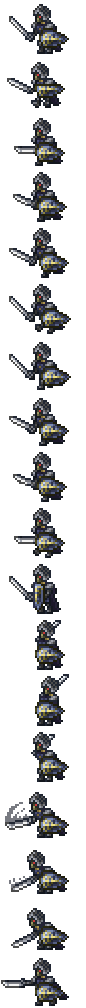
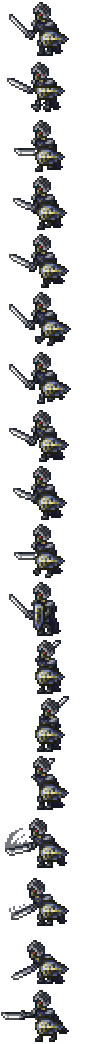
Pre-HM Balancing tweaks
- Lots of small Pre-HM balancing. Bigger ones to note:
- Ancient Demon Helmet gives +40 mana instead of +3% magic crit chance.
- Nights Edge and Fiery Greatsword have been buffed to their Terraria 1.4 stats.
- Muramassa and Murassame  now deal magic damage, have had their dps cut by over 2/3, and now gain +1 damage for every 20 and 10 of the players max mana over 200, respectively.
- Hollow Warrior and Soldier now take longer to recover from their jumpstrike, giving players more time to damage them from behind.
- Lothric Knight is no longer a 5'11" scrub, and is now a 6'gigachad.

Changed region(s): [[0.0233, 0.0, 0.814, 1.0]]

diff --git a/NPCs/Enemies/LothricKnight.cs b/NPCs/Enemies/LothricKnight.cs
@@ -38,7 +38,7 @@ namespace tsorcRevamp.NPCs.Enemies
             npc.aiStyle = -1;
             npc.damage = 40;
             npc.defense = 26;
-            npc.height = 40;
+            npc.height = 44;
             npc.width = 20;
             npc.lifeMax = 750;
             if (Main.hardMode) { npc.lifeMax = 1400; npc.defense = 40; }
@@ -434,7 +434,7 @@ namespace tsorcRevamp.NPCs.Enemies
             {
                 if (npc.direction == 1) //Large eye dust to warn player that a jump-slash is ready...
                 {
-                    Dust dust2 = Main.dust[Dust.NewDust(new Vector2(npc.position.X + 9, npc.position.Y + 1), 4, 4, 183, npc.velocity.X, npc.velocity.Y, 180, default(Color), 1.5f)];
+                    Dust dust2 = Main.dust[Dust.NewDust(new Vector2(npc.position.X + 9, npc.position.Y), 4, 4, 183, npc.velocity.X, npc.velocity.Y, 180, default(Color), 1.5f)];
                     //dust2.velocity *= 0f;
                     dust2.noGravity = true;
                     dust2.fadeIn = .3f;
@@ -443,7 +443,7 @@ namespace tsorcRevamp.NPCs.Enemies
 
                 else
                 {
-                    Dust dust2 = Main.dust[Dust.NewDust(new Vector2(npc.position.X + 3, npc.position.Y + 1), 4, 4, 183, npc.velocity.X, npc.velocity.Y, 180, default(Color), 1.5f)];
+                    Dust dust2 = Main.dust[Dust.NewDust(new Vector2(npc.position.X + 3, npc.position.Y), 4, 4, 183, npc.velocity.X, npc.velocity.Y, 180, default(Color), 1.5f)];
                     //dust2.velocity *= 0f;
                     dust2.noGravity = true;
                     dust2.fadeIn = .3f;
@@ -456,7 +456,7 @@ namespace tsorcRevamp.NPCs.Enemies
             {
                 if (npc.direction == 1) //Small eye dust to warn player that a jump-slash is ready...
                 {
-                    Dust dust2 = Main.dust[Dust.NewDust(new Vector2(npc.position.X + 9, npc.position.Y + 1), 4, 4, 183, npc.velocity.X, npc.velocity.Y, 180, default(Color), 0.8f)];
+                    Dust dust2 = Main.dust[Dust.NewDust(new Vector2(npc.position.X + 9, npc.position.Y), 4, 4, 183, npc.velocity.X, npc.velocity.Y, 180, default(Color), 0.8f)];
                     //dust2.velocity *= 0f;
                     dust2.noGravity = true;
                     dust2.fadeIn = .3f;
@@ -465,7 +465,7 @@ namespace tsorcRevamp.NPCs.Enemies
 
                 else
                 {
-                    Dust dust2 = Main.dust[Dust.NewDust(new Vector2(npc.position.X + 3, npc.position.Y + 1), 4, 4, 183, npc.velocity.X, npc.velocity.Y, 180, default(Color), 0.8f)];
+                    Dust dust2 = Main.dust[Dust.NewDust(new Vector2(npc.position.X + 3, npc.position.Y), 4, 4, 183, npc.velocity.X, npc.velocity.Y, 180, default(Color), 0.8f)];
                     //dust2.velocity *= 0f;
                     dust2.noGravity = true;
                     dust2.fadeIn = .3f;

diff --git a/Items/Weapons/Magic/Muramassa.cs b/Items/Weapons/Magic/Muramassa.cs
@@ -1,19 +1,21 @@
-using Terraria.ID;
+using Terraria;
+using Terraria.ID;
 using Terraria.ModLoader;
 
-namespace tsorcRevamp.Items.Weapons.Melee {
+namespace tsorcRevamp.Items.Weapons.Magic {
     class Muramassa : ModItem {
         public override void SetStaticDefaults() {
             Tooltip.SetDefault("A sword crafted for magic users" +
-                                "\nCan be upgraded with 25,000 Dark Souls & 3 Souls of Light");
+                               "\nDeals +1 damage for every 20 mana the user has over 200" +
+                               "\nCan be upgraded with 25,000 Dark Souls & 3 Souls of Light");
         }
 
         public override void SetDefaults() {
             item.width = 48;
             item.height = 48;
-            item.useAnimation = 11;
-            item.useTime = 11;
-            item.damage = 27;
+            item.useAnimation = 18;
+            item.useTime = 18;
+            item.damage = 12;
             item.knockBack = 3;
             item.autoReuse = true;
             item.useTurn = true;
@@ -21,7 +23,7 @@ namespace tsorcRevamp.Items.Weapons.Melee {
             item.rare = ItemRarityID.Green;
             item.useStyle = ItemUseStyleID.SwingThrow;
             item.value = 27000;
-            item.melee = true;
+            item.magic = true;
             item.mana = 5;
             item.shoot = ModContent.ProjectileType<Projectiles.HealingWater>();
             item.shootSpeed = 11f;
@@ -34,6 +36,14 @@ namespace tsorcRevamp.Items.Weapons.Melee {
             recipe.AddTile(TileID.DemonAltar);
             recipe.SetResult(this, 1);
             recipe.AddRecipe();
+        }
+
+        public override void ModifyWeaponDamage(Player player, ref float add, ref float mult, ref float flat)
+        {
+            if (player.statManaMax2 >= 200)
+            {
+                flat += (player.statManaMax2 - 200) / 20;
+            }
         }
     }
 }

diff --git a/Items/Weapons/Magic/Murassame.cs b/Items/Weapons/Magic/Murassame.cs
@@ -1,26 +1,28 @@
 using Terraria.ID;
+using Terraria;
 using Terraria.ModLoader;
 
-namespace tsorcRevamp.Items.Weapons.Melee {
+namespace tsorcRevamp.Items.Weapons.Magic {
     class Murassame : ModItem {
         public override void SetStaticDefaults() {
-            Tooltip.SetDefault("A sword crafted for magic users");
+            Tooltip.SetDefault("A sword crafted for magic users" +
+                               "\nDeals +1 damage for every 10 mana the user has over 200");
         }
 
         public override void SetDefaults() {
             item.width = 48;
             item.height = 48;
-            item.useAnimation = 14;
-            item.useTime = 14;
-            item.damage = 50;
-            item.knockBack = 9;
+            item.useAnimation = 16;
+            item.useTime = 16;
+            item.damage = 18;
+            item.knockBack = 5;
             item.autoReuse = true;
             item.useTurn = true;
             item.UseSound = SoundID.Item1;
             item.rare = ItemRarityID.LightRed;
             item.useStyle = ItemUseStyleID.SwingThrow;
             item.value = 500000;
-            item.melee = true;
+            item.magic = true;
             item.mana = 5;
             item.shoot = ModContent.ProjectileType<Projectiles.HealingWater>();
             item.shootSpeed = 12f;
@@ -34,6 +36,14 @@ namespace tsorcRevamp.Items.Weapons.Melee {
             recipe.AddTile(TileID.DemonAltar);
             recipe.SetResult(this, 1);
             recipe.AddRecipe();
+        }
+
+        public override void ModifyWeaponDamage(Player player, ref float add, ref float mult, ref float flat)
+        {
+            if (player.statManaMax2 >= 200)
+            {
+                flat += (player.statManaMax2 - 200) / 10;
+            }
         }
     }
 }

diff --git a/NPCs/Enemies/HollowWarrior.cs b/NPCs/Enemies/HollowWarrior.cs
@@ -489,7 +489,7 @@ namespace tsorcRevamp.NPCs.Enemies
                             Projectile.NewProjectile(npc.Center + new Vector2(-20, -20), new Vector2(0, 4f), ModContent.ProjectileType<Projectiles.Enemy.SmallWeaponSlash>(), 13, 5, Main.myPlayer, npc.whoAmI, 0);
                         }
                     }
-                    if (npc.ai[1] > 470 && npc.ai[1] < 489)
+                    if (npc.ai[1] > 470 && npc.ai[1] < 510)
                     {
                         if (npc.direction == 1)
                         {
@@ -509,7 +509,7 @@ namespace tsorcRevamp.NPCs.Enemies
                             }
                         }
                     }
-                    if (npc.ai[1] >= 489) //If timer is 69
+                    if (npc.ai[1] >= 510) //If timer is 510
                     {
                         jumpSlashing = false;
                         npc.ai[1] = 0; //Reset timer
@@ -901,7 +901,7 @@ namespace tsorcRevamp.NPCs.Enemies
                 {
                     npc.frame.Y = 15 * frameHeight;
                 }
-                else if (npc.ai[1] < 489)
+                else if (npc.ai[1] < 510)
                 {
                     npc.frame.Y = 16 * frameHeight;
                 }

diff --git a/NPCs/Enemies/HollowSoldier.cs b/NPCs/Enemies/HollowSoldier.cs
@@ -503,7 +503,7 @@ namespace tsorcRevamp.NPCs.Enemies
                             Projectile.NewProjectile(npc.Center + new Vector2(-8, -20), new Vector2(0, 4f), ModContent.ProjectileType<Projectiles.Enemy.MediumWeaponSlash>(), 22, 5, Main.myPlayer, npc.whoAmI, 0);
                         }
                     }
-                    if (npc.ai[1] > 470 && npc.ai[1] < 489)
+                    if (npc.ai[1] > 470 && npc.ai[1] < 510)
                     {
                         if (npc.direction == 1)
                         {
@@ -523,7 +523,7 @@ namespace tsorcRevamp.NPCs.Enemies
                             }
                         }
                     }
-                    if (npc.ai[1] >= 489) //If timer is 69
+                    if (npc.ai[1] >= 510) //If timer is 69
                     {
                         jumpSlashing = false;
                         npc.ai[1] = 0; //Reset timer
@@ -907,7 +907,7 @@ namespace tsorcRevamp.NPCs.Enemies
                 {
                     npc.frame.Y = 15 * frameHeight;
                 }
-                else if (npc.ai[1] < 489)
+                else if (npc.ai[1] < 510)
                 {
                     npc.frame.Y = 16 * frameHeight;
                 }

diff --git a/Items/Weapons/Ranged/SuperBlaster.cs b/Items/Weapons/Ranged/SuperBlaster.cs
@@ -16,7 +16,7 @@ namespace tsorcRevamp.Items.Weapons.Ranged
 
         public override void SetDefaults()
         {
-            item.damage = 35;
+            item.damage = 42;
             item.ranged = true;
             item.crit = 4;
             item.width = 44;
@@ -25,7 +25,7 @@ namespace tsorcRevamp.Items.Weapons.Ranged
             item.useAnimation = 20;
             item.useStyle = ItemUseStyleID.HoldingOut;
             item.noMelee = true;
-            item.knockBack = 3.5f;
+            item.knockBack = 4f;
             item.value = 25000;
             item.scale = 0.7f;
             item.rare = ItemRarityID.Orange;
@@ -37,8 +37,8 @@ namespace tsorcRevamp.Items.Weapons.Ranged
         {
             ModRecipe recipe = new ModRecipe(mod);
             recipe.AddIngredient(null, "Blaster");
-            recipe.AddIngredient(ItemID.HellstoneBar, 8);
-            recipe.AddIngredient(mod.GetItem("DarkSoul"), 7500);
+            recipe.AddIngredient(ItemID.HellstoneBar, 1);
+            recipe.AddIngredient(mod.GetItem("DarkSoul"), 5000);
             recipe.AddTile(TileID.DemonAltar);
             recipe.SetResult(this);
             recipe.AddRecipe();

diff --git a/Items/Weapons/Melee/Jawblade.cs b/Items/Weapons/Melee/Jawblade.cs
@@ -12,13 +12,26 @@ namespace tsorcRevamp.Items.Weapons.Melee {
             item.useStyle = ItemUseStyleID.SwingThrow;
             item.useAnimation = 30;
             item.useTime = 30;
-            item.damage = 36;
+            item.damage = 46;
             item.knockBack = 7;
-            item.scale = 1.3f;
+            item.scale = 1f;
             item.UseSound = SoundID.Item1;
             item.rare = ItemRarityID.Orange;
             item.value = 27000;
             item.melee = true;
+            item.autoReuse = true;
+        }
+
+        public override void AddRecipes()
+        {
+            ModRecipe recipe = new ModRecipe(mod);
+
+            recipe.AddIngredient(ModContent.ItemType<Items.Weapons.Melee.BoneBlade>());
+            recipe.AddIngredient(mod.GetItem("DarkSoul"), 3000);
+
+            recipe.AddTile(TileID.DemonAltar);
+            recipe.SetResult(this, 1);
+            recipe.AddRecipe();
         }
     }
 }

diff --git a/Items/Weapons/Melee/ForgottenGreatAxe.cs b/Items/Weapons/Melee/ForgottenGreatAxe.cs
@@ -6,7 +6,7 @@ namespace tsorcRevamp.Items.Weapons.Melee {
 
         public override void SetDefaults() {
             item.rare = ItemRarityID.Green;
-            item.damage = 26;
+            item.damage = 28;
             item.height = 36;
             item.knockBack = 7;
             item.autoReuse = true;
@@ -23,7 +23,7 @@ namespace tsorcRevamp.Items.Weapons.Melee {
         public override void AddRecipes() {
             ModRecipe recipe = new ModRecipe(mod);
             recipe.AddIngredient(mod.GetItem("ForgottenAxe"), 1);
-            recipe.AddIngredient(mod.GetItem("DarkSoul"), 5000);
+            recipe.AddIngredient(mod.GetItem("DarkSoul"), 2000);
             recipe.AddTile(TileID.DemonAltar);
             recipe.SetResult(this, 1);
             recipe.AddRecipe();

diff --git a/Items/Weapons/Melee/ForgottenKotetsu.cs b/Items/Weapons/Melee/ForgottenKotetsu.cs
@@ -2,18 +2,18 @@
 using Terraria.ModLoader;
 
 namespace tsorcRevamp.Items.Weapons.Melee {
-    class ForgottenKotetsu : ModItem {
+    class ForgottenKotetsu : ModItem { // post skeletron, sold by solaire
 
         public override void SetDefaults() {
             item.autoReuse = true;
             item.useTurn = true;
             item.rare = ItemRarityID.Green;
-            item.damage = 33;
+            item.damage = 30;
             item.height = 40;
             item.knockBack = 3;
             item.melee = true;
-            item.useAnimation = 18;
-            item.useTime = 18;
+            item.useAnimation = 16;
+            item.useTime = 16;
             item.UseSound = SoundID.Item1;
             item.value = 200000;
             item.width = 39;

diff --git a/Items/Armors/AncientDemonHelmet.cs b/Items/Armors/AncientDemonHelmet.cs
@@ -10,7 +10,7 @@ namespace tsorcRevamp.Items.Armors
     {
         public override void SetStaticDefaults()
         {
-            Tooltip.SetDefault("You hear an evil whispering from inside.\n+3% magic crit");
+            Tooltip.SetDefault("You hear an evil whispering from inside.\n+40 mana");
         }
 
         public override void SetDefaults()
@@ -24,7 +24,7 @@ namespace tsorcRevamp.Items.Armors
 
         public override void UpdateEquip(Player player)
         {
-            player.magicCrit += 3;
+            player.statManaMax2 += 40;
         }
 
         public override bool IsArmorSet(Item head, Item body, Item legs)

diff --git a/Items/VanillaItems/MinorEdits.cs b/Items/VanillaItems/MinorEdits.cs
@@ -13,6 +13,18 @@ namespace tsorcRevamp.Items.VanillaItems {
             if (item.type == ItemID.DivingHelmet) {
                 item.accessory = true;
             }
+            if (item.type == ItemID.NightsEdge)
+            {
+                item.autoReuse = true;
+                item.useAnimation = 21;
+                item.useTime = 21;
+            }
+            if (item.type == ItemID.FieryGreatsword)
+            {
+                item.useAnimation = 30;
+                item.useTime = 30;
+                item.damage = 40;
+            }
         }
 
         public override bool CanUseItem(Item item, Player player)

diff --git a/NPCs/Enemies/CosmicCrystalLizard.cs b/NPCs/Enemies/CosmicCrystalLizard.cs
@@ -1006,10 +1006,12 @@ namespace tsorcRevamp.NPCs.Enemies
 		{
 			Item.NewItem(npc.getRect(), mod.ItemType("DarkSoul"), 400);
 			Item.NewItem(npc.getRect(), mod.ItemType("EternalCrystal")); //always drops 1
-			Item.NewItem(npc.getRect(), ItemID.EndurancePotion);
 
-
-			if (Main.rand.NextFloat() >= 0.4f) // 60% chance
+			if (Main.rand.NextFloat() >= 0.2f) // 80% chance
+			{
+				Item.NewItem(npc.getRect(), ItemID.EndurancePotion);
+			}
+			if (Main.rand.NextFloat() >= 0.2f) // 80% chance
 			{
 				Item.NewItem(npc.getRect(), mod.ItemType("SoulSiphonPotion"));
 			}
